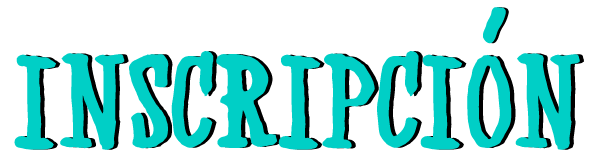
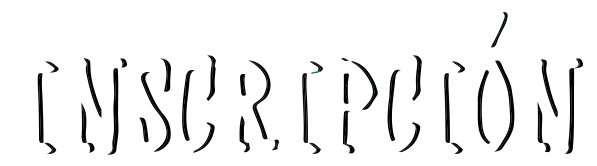
Look&Feel Ajuste

diff --git a/MiCuenta.html b/MiCuenta.html
@@ -1,0 +1,130 @@
+<!doctype html>
+<html lang="en">
+  <head>
+    <!-- Required meta tags -->
+    <meta charset="utf-8">
+    <meta name="viewport" content="width=device-width, initial-scale=1, shrink-to-fit=no">
+
+    <!-- Bootstrap CSS -->
+    <link rel="stylesheet" href="https://stackpath.bootstrapcdn.com/bootstrap/4.3.1/css/bootstrap.min.css" integrity="sha384-ggOyR0iXCbMQv3Xipma34MD+dH/1fQ784/j6cY/iJTQUOhcWr7x9JvoRxT2MZw1T" crossorigin="anonymous">
+    <!-- Mis estilos -->
+    <link rel="stylesheet" href="css/style.css">
+    <!--Animación CSS-->
+    <link rel="stylesheet" href="css/animate.css">
+
+    <title>Halloween 2019 | TVP</title>
+
+  </head>
+  <body>
+    <header></header>
+    <main>
+    <div class="Mobile">
+            <!--Sección del menu-->
+            <div id="menu">
+                <ul id="aparicion">
+                    <li><a class="TextoMenu" href="inscribete.html">- Inscríbete al concurso</a></li>
+                    <li><a class="TextoMenu" href="index.html">- Salir</a></li>
+                </ul>
+            </div>
+            <!--Comienza el GRID-->
+            <div class="ContainerGrid">
+                <!--Sección imagen | Texto Principal-->
+                <div class="ImgContainer">
+                    <div class="background">
+                        <img src="images/FondoPrincipal.png" alt="Background">
+                    </div>
+                    <div class="opacity">
+                        <div class="menu shadowText">
+                            <a href="#menu" id="toggle" onclick="menu()"><span></span></a>
+                        </div>
+                        <!--LOG OUT-->
+                        <div class="LogOut">
+                            <a href="index.html">
+                                <svg xmlns="http://www.w3.org/2000/svg" width="39.998" height="29.744" viewBox="0 0 39.998 29.744">
+                                    <g id="logout" transform="translate(0 -42.299)">
+                                        <g id="XMLID_2_" transform="translate(0 42.299)">
+                                        <path id="XMLID_4_" d="M6.207,114.091H27.271a1.818,1.818,0,0,0,0-3.636H6.207L8.558,108.1a1.818,1.818,0,0,0-2.571-2.571L.533,110.987c-.042.042-.082.086-.12.132-.009.011-.017.023-.026.035-.028.035-.055.071-.08.108-.007.011-.013.022-.02.033-.025.039-.049.078-.072.12L.2,111.44c-.023.044-.045.09-.064.136l-.006.018c-.02.049-.038.1-.054.15,0,.006,0,.013,0,.02-.015.05-.028.1-.038.152,0,.015,0,.031-.007.047-.008.043-.015.086-.019.13a1.793,1.793,0,0,0,0,.363c0,.044.012.088.019.131,0,.015,0,.03.007.045.01.052.024.1.039.154,0,.006,0,.012,0,.018.016.051.034.1.054.151l.006.016c.019.047.042.092.065.137l.012.024c.022.041.047.081.072.12.007.011.013.022.02.032.025.037.053.073.08.108.009.011.017.023.026.035.038.046.078.09.12.132l5.454,5.454a1.818,1.818,0,1,0,2.571-2.571Z" transform="translate(0 -97.401)" fill="#fff"/>
+                                        <path id="XMLID_5_" d="M115.505,42.3a14.861,14.861,0,0,0-12.351,6.585,1.818,1.818,0,0,0,3.018,2.028,11.236,11.236,0,1,1,.015,12.539,1.818,1.818,0,0,0-3.013,2.036A14.873,14.873,0,1,0,115.505,42.3Z" transform="translate(-90.379 -42.299)" fill="#fff"/>
+                                        </g>
+                                    </g>
+                                </svg>
+                                <p class="Salir">Salir</p>
+                            </a>
+                        </div>
+                        <div class="ContentTitle">
+                            <h1 class="shadowText title">Mi cuenta</h1>
+                            <p class="shadowText heading-4">Bienvenido</p>
+                        </div>
+                    </div>
+                </div>
+
+                <!--Sección de Contenido Principal-->
+                <div class="BoxContainer">
+                    <div class="ContentBox MiCuenta-section">
+                        <div class="contenedor-titulo-flex">
+                            <h2>¿Ya votaste?</h2>
+                            <p>Recuerda que sólo tienes una oportunidad para votar</p>
+                        </div>
+                        <div class="contenedor-botones-flex">
+                            <button id="disfraces">Concurso de disfraces</button>
+                            <button id="baile">Concurso de baile</button>
+                            <button id="ofrenda">Concurso de la ofrenda</button>
+                        </div>
+                        <div class="EndSpace"></div>
+                    </div>
+                </div>
+            </div>
+        </div>
+        </main>
+        <!--Footer de la App-->
+        <footer>
+            <div class="BoxFooter">
+                <div class="ContainerFooter">
+                    <a href="DisfracesGanadores.html">
+                        <!-- SVG | ICONO | COPA -->
+                        <svg xmlns="http://www.w3.org/2000/svg" width="30.468" height="35.58" viewBox="0 0 30.468 35.58">
+                            <g id="Grupo_6" data-name="Grupo 6" transform="translate(57 -579)">
+                              <g id="trophy_1_" data-name="trophy (1)" transform="translate(-93.785 579)">
+                                <g id="Grupo_3" data-name="Grupo 3" transform="translate(36.785)">
+                                  <g id="Grupo_2" data-name="Grupo 2" transform="translate(0)">
+                                    <path id="Trazado_30" data-name="Trazado 30" d="M66.644,3.431a2.575,2.575,0,0,0-1.964-.908H62.193V1.745A1.747,1.747,0,0,0,60.448,0H43.59a1.747,1.747,0,0,0-1.745,1.745v.778H39.358a2.575,2.575,0,0,0-1.964.908,2.543,2.543,0,0,0-.576,2.059A13.323,13.323,0,0,0,43.587,15a17.57,17.57,0,0,0,1.112,2.23,10.375,10.375,0,0,0,4.769,4.5,3.761,3.761,0,0,1-2.9,4.024l-.011,0a.823.823,0,0,0-.632.8v3.778H44.394a2.473,2.473,0,0,0-2.47,2.47v1.95a.823.823,0,0,0,.823.823H61.37a.823.823,0,0,0,.823-.823v-1.95a2.473,2.473,0,0,0-2.47-2.47H58.195V26.559a.823.823,0,0,0-.634-.8l-.01,0a3.758,3.758,0,0,1-2.9-4.058,10.435,10.435,0,0,0,4.689-4.466A17.577,17.577,0,0,0,60.451,15,13.324,13.324,0,0,0,67.22,5.49,2.543,2.543,0,0,0,66.644,3.431Zm-28.2,1.794a.887.887,0,0,1,.2-.727.93.93,0,0,1,.71-.328h2.486V5.685a25.875,25.875,0,0,0,.878,6.781A11.661,11.661,0,0,1,38.444,5.225ZM59.723,31.983a.824.824,0,0,1,.823.823v1.126H43.57V32.807a.824.824,0,0,1,.823-.823Zm-3.175-4.6v2.954H47.569V27.382Zm-6.82-1.647a5.452,5.452,0,0,0,.556-.727,5.357,5.357,0,0,0,.85-2.827,6.456,6.456,0,0,0,1.848-.011A5.421,5.421,0,0,0,54.4,25.735H49.728ZM60.546,5.685A21.277,21.277,0,0,1,57.923,16.39c-1.612,2.712-3.708,4.206-5.9,4.206s-4.293-1.494-5.9-4.206A21.276,21.276,0,0,1,43.492,5.685V1.745a.1.1,0,0,1,.1-.1H60.448a.1.1,0,0,1,.1.1Zm5.048-.459a11.662,11.662,0,0,1-4.279,7.24,25.878,25.878,0,0,0,.878-6.781V4.17h2.486a.93.93,0,0,1,.71.328A.888.888,0,0,1,65.594,5.225Z" transform="translate(-36.785 0)"/>
+                                  </g>
+                                </g>
+                                <g id="Grupo_5" data-name="Grupo 5" transform="translate(46.979 4.822)">
+                                  <g id="Grupo_4" data-name="Grupo 4" transform="translate(0)">
+                                    <path id="Trazado_31" data-name="Trazado 31" d="M193.518,73.023a.824.824,0,0,0-.665-.56l-2.485-.361-1.111-2.252a.823.823,0,0,0-1.477,0L186.669,72.1l-2.485.361a.823.823,0,0,0-.456,1.4l1.8,1.753-.425,2.475a.823.823,0,0,0,1.195.868l2.223-1.168,2.223,1.168a.823.823,0,0,0,1.195-.868l-.425-2.475,1.8-1.753A.823.823,0,0,0,193.518,73.023Zm-3.466,1.72a.823.823,0,0,0-.237.729l.216,1.257-1.129-.594a.824.824,0,0,0-.766,0l-1.129.594.216-1.257a.823.823,0,0,0-.237-.729l-.913-.89,1.262-.183a.823.823,0,0,0,.62-.45l.564-1.144.564,1.144a.824.824,0,0,0,.62.45l1.262.183Z" transform="translate(-183.479 -69.391)"/>
+                                  </g>
+                                </g>
+                              </g>
+                            </g>
+                          </svg>
+                        <p class="TextoGanadores">Ver ganadores</p>
+                    </a>  
+                </div>
+            </div>
+        </footer>
+
+        <!-- Vista de Desktop | Tablet -->
+        <div class="Responsive">
+            <div class="fondoDesktop">
+                <div class="FloatBox">
+                    <div class="BoxContainer-Responsive">
+                        <h3>Tu pantalla es muy grande</h3>
+                        <p class="textResponsive">Si quieres visualizar el sitio desde tu desktop, haz la pantalla de tu browser lo más pequeña posible.</p>
+                        <img src="images/AjusteDePantalla.gif" alt="...">
+                    </div>
+                </div>
+                <img src="images/BackgroundAnimas.png" alt="Background Animas">
+            </div>
+        </div>
+
+    <!-- Optional JavaScript -->
+    <!-- jQuery first, then Popper.js, then Bootstrap JS -->
+    <script src="https://code.jquery.com/jquery-3.3.1.slim.min.js" integrity="sha384-q8i/X+965DzO0rT7abK41JStQIAqVgRVzpbzo5smXKp4YfRvH+8abtTE1Pi6jizo" crossorigin="anonymous"></script>
+    <script src="https://cdnjs.cloudflare.com/ajax/libs/popper.js/1.14.7/umd/popper.min.js" integrity="sha384-UO2eT0CpHqdSJQ6hJty5KVphtPhzWj9WO1clHTMGa3JDZwrnQq4sF86dIHNDz0W1" crossorigin="anonymous"></script>
+    <script src="https://stackpath.bootstrapcdn.com/bootstrap/4.3.1/js/bootstrap.min.js" integrity="sha384-JjSmVgyd0p3pXB1rRibZUAYoIIy6OrQ6VrjIEaFf/nJGzIxFDsf4x0xIM+B07jRM" crossorigin="anonymous"></script>
+    <!--Mis JS-->
+    <script src="js/menu.js"></script>
+
+  </body>
+</html>

diff --git a/css/style.css b/css/style.css
@@ -17,7 +17,7 @@ a{
 }
 h1{
     font-size: 38pt;
-    color: #00cfc6;
+    color: #ffffff;
 }
 h3{
     font-family: "western_swaggerregular",sans-serif;
@@ -69,9 +69,9 @@ h3{
     border: 0px solid #000000;
 
     /*Sombra*/
-    -webkit-box-shadow: 0px -37px 51px -11px rgba(0,0,0,0.98);
-    -moz-box-shadow: 0px -37px 51px -11px rgba(0,0,0,0.98);
-    box-shadow: 0px -37px 51px -11px rgba(0,0,0,0.98);
+    -webkit-box-shadow: -4px -10px 17px -2px rgba(0,0,0,0.46);
+    -moz-box-shadow: -4px -10px 17px -2px rgba(0,0,0,0.46);
+    box-shadow: -4px -10px 17px -2px rgba(0,0,0,0.46);
 }
 /* Clases de botones posicionados en un Grid */
 .A{
@@ -88,10 +88,10 @@ h3{
     grid-column-start: 2;
     grid-row-start: 4;
     grid-row-end: 5;
-    background: rgb(255,232,116);
-    background: linear-gradient(180deg, rgba(255,232,116,1) 0%, rgba(242,204,16,1) 96%);
+    background: rgb(249,106,135);
+background: linear-gradient(180deg, rgba(249,106,135,1) 0%, rgba(249,53,92,1) 86%);
     border: none;
-    color: black;
+    color: white;
 }
 
 /* Botones */
@@ -100,13 +100,13 @@ button{
     -moz-border-radius: 25px 25px 25px 25px;
     -webkit-border-radius: 25px 25px 25px 25px;
     background: white;
-    border: 2px solid #30cec6;
-    color: #30cec6;
+    border: 2px solid #3f5efb;
+    color: #3f5efb;
     font-size: 14pt;
 }
 button:hover{
-    background: #30cec6;
-    color: black;
+    background: #3f5efb;
+    color: white;
 }
 /*Sección de imagen Fondo | Opacidad | sección de titulos principales*/
 .background{
@@ -122,8 +122,8 @@ button:hover{
     z-index: 1;
     background: #000000;
     position: absolute;
-    background: rgb(120,30,6);
-    background: linear-gradient(180deg, rgba(120,30,6,0.5) 0%, rgba(68,9,0,0.5) 41%, rgba(25,25,25,0.5) 100%);
+    background: rgb(63,94,251);
+    background: linear-gradient(0deg, rgba(63,94,251,0.87718837535014) 0%, rgba(252,70,107,0.7483368347338936) 86%);
 
     display: grid;
     grid-template-columns: 30px auto 30px;
@@ -136,6 +136,7 @@ button:hover{
     color: white;
 }
 .title{
+    letter-spacing: 3px;
     font-family: 'western_swaggerregular';
 }
 .heading-2{
@@ -512,19 +513,19 @@ input{
     grid-column-start: 2; 
     grid-row-start: 7;
     grid-row-end: 8;
-    background: rgb(255,232,116);
-    background: linear-gradient(180deg, rgba(255,232,116,1) 0%, rgba(242,204,16,1) 96%);
+    background: rgb(249,106,135);
+    background: linear-gradient(180deg, rgba(249,106,135,1) 0%, rgba(249,53,92,1) 86%);
     font-size: 14pt;
     border: none;
-    color: black;
+    color: white;
 }
 .texto-info{
     grid-column-start: 2; 
     grid-row-start: 5;
     grid-row-end: 6;
     
-    background: #ff5f67;
-    color: white;
+    background: #f2cc10;
+    color: black;
     width: 100%;
     height: 100%;
     border: none;
@@ -544,7 +545,7 @@ input{
     grid-row-end: 7;
 
     background: white;
-    color: #00cfc6;
+    color: #3f5efb;
     border: none;
     font-size: 14pt;
 
@@ -558,7 +559,7 @@ input{
     border-radius: 40px 40px 40px 40px;
     -moz-border-radius: 40px 40px 40px 40px;
     -webkit-border-radius: 40px 40px 40px 40px;
-    border: 2px solid #00cfc6;
+    border: 2px solid #3f5efb;
 }
 [type="file"] {
     height: 0.1px; width: 0.1px;
@@ -568,7 +569,7 @@ input{
     z-index: -1;
 }
 .HoverButton:hover{
-    background: #00cfc6;
+    background: #3f5efb;
     color: white;
 }
 #alerta{
@@ -589,8 +590,8 @@ input{
     grid-row-start: 3;
     grid-row-end: 4;
 
-    background: #ff5f67;
-    color: white;
+    background: #f2cc10;
+    color: black;
     width: 100%;
     height: 100%;
     border: none;
@@ -626,10 +627,10 @@ input{
     grid-row-start: 8;
     grid-row-end: 9;
 
-    background: rgb(255,232,116);
-    background: linear-gradient(180deg, rgba(255,232,116,1) 0%, rgba(242,204,16,1) 96%);
+    background: rgb(249,106,135);
+    background: linear-gradient(180deg, rgba(249,106,135,1) 0%, rgba(249,53,92,1) 86%);
     border: none;
-    color: black;
+    color: white;
 }
 .check{
     width: 30px;
@@ -656,10 +657,11 @@ input{
     grid-row-start: 7;
     grid-row-end: 8;
 
-    background: rgb(255,232,116);
-    background: linear-gradient(180deg, rgba(255,232,116,1) 0%, rgba(242,204,16,1) 96%);
+    background: rgb(249,106,135);
+    background: linear-gradient(180deg, rgba(249,106,135,1) 0%, rgba(249,53,92,1) 86%);
     border: none;
-    color: black;
+    color: white;
+    font-size: 14pt;
 }
 .text-center{
     text-align: center;
@@ -670,5 +672,72 @@ input{
     grid-row-end: 7;
 
     text-align: center;
-    color: #00cfc6;
+    color: #3f5efb;
+}
+
+/* Mi Cuenta */
+.MiCuenta-section{
+    margin-top: -100px !important;
+    display: flex;
+    flex-wrap: wrap;
+    padding: 5%;
+}
+.heading-4{
+    margin-top: -25px;
+    font-size: 30pt;
+}
+.contenedor-titulo-flex{
+    width: 100%;
+    text-align: center;
+    margin-top: 30px;
+}
+.contenedor-titulo-flex p{ 
+    padding: 0% 5% 0% 5%;
+    font-size: 14pt;
+}
+.contenedor-botones-flex{
+    display: flex;
+    flex-wrap: wrap;
+}
+.contenedor-botones-flex button{
+    width: 100%;
+    height: 60px;
+    margin-top: 4%;
+    margin-bottom: 4%;
+}
+.EndSpace{
+    height: 100px;
+}
+.LogOut{
+    grid-column-start: 2; 
+    grid-row-start: 1;
+    grid-row-end: 2;
+
+    display: flex;
+    justify-content: flex-end;
+    align-items: center;
+}
+.LogOut a{
+    display: flex;
+}
+.Salir{
+    color: white;
+    font-size: 14pt;
+    margin: 0;
+    margin-left: 10px;
+}
+#disfraces{
+    border:none;
+    background: #00cfc6;
+    color: #000000;
+}
+#baile{
+    border:none;
+    background: #ff5f67;
+    color: #000000;
+}
+#ofrenda{
+    border:none;
+    background: #f2cc10;
+    color: #000000;
 }
